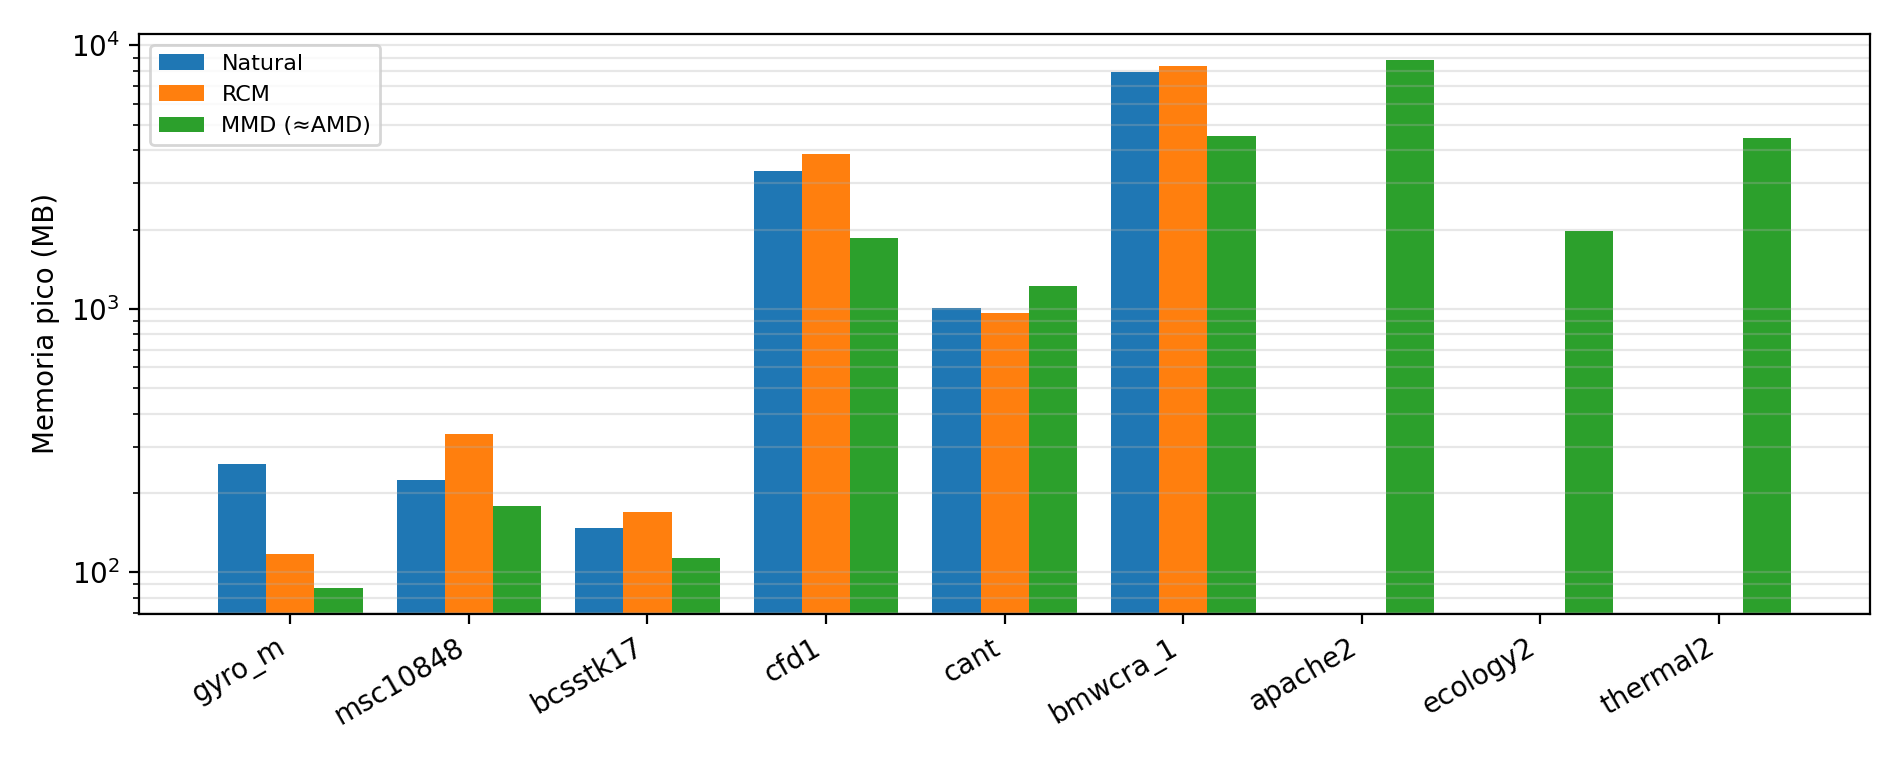
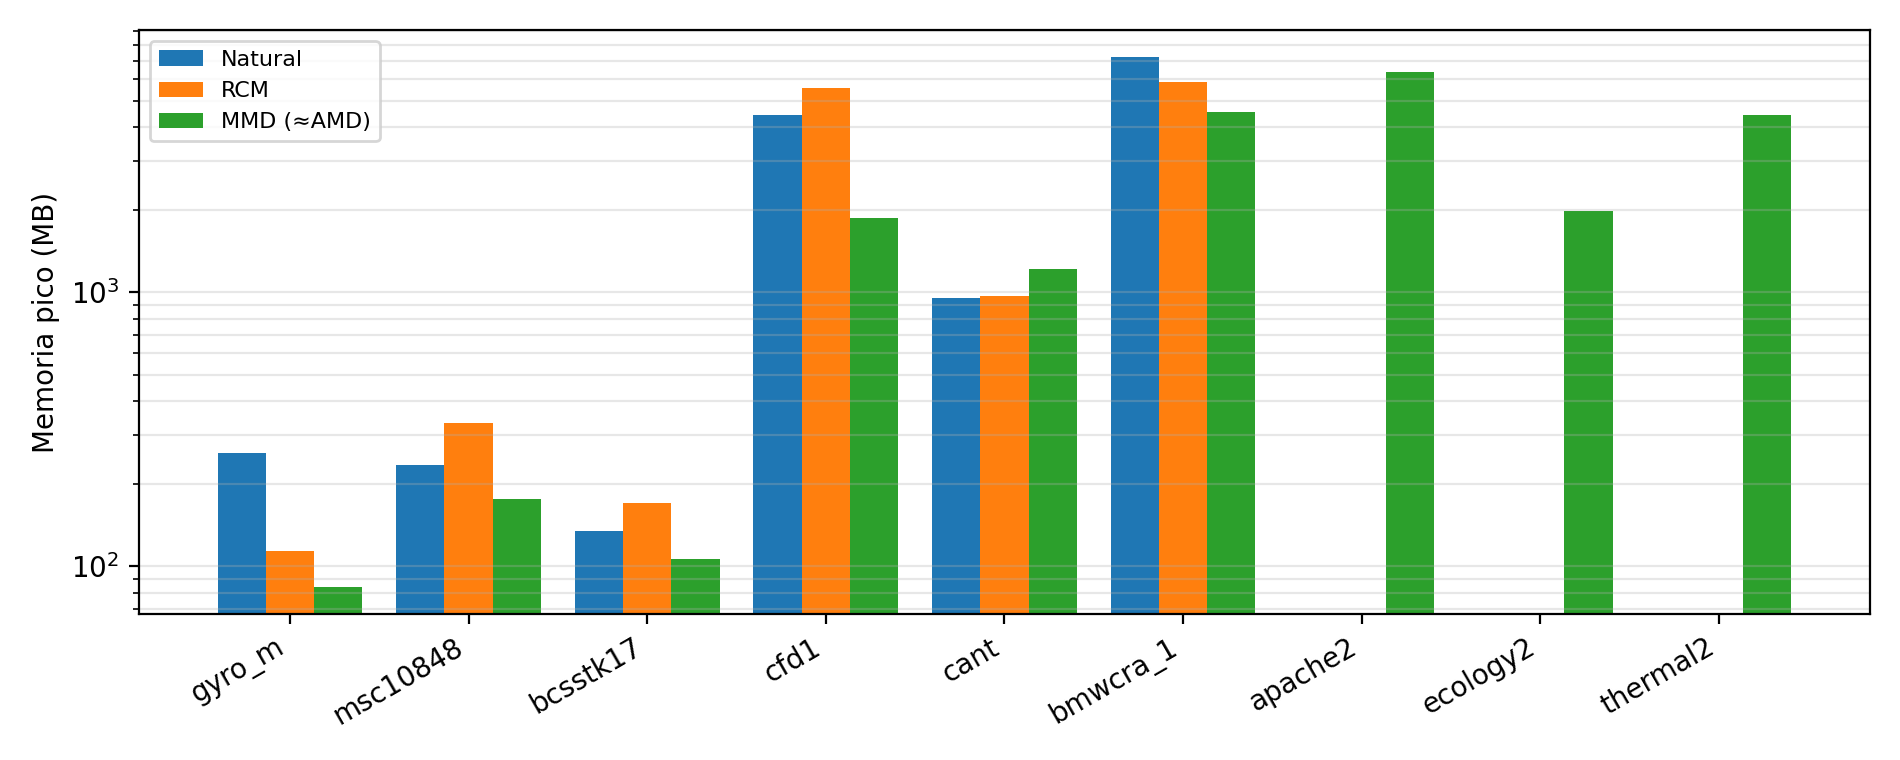
Ejercicio 2: nuevas corridas, figuras y CAMBIOS.md

diff --git a/CAMBIOS.md b/CAMBIOS.md
@@ -1,0 +1,225 @@
+# Cambios de medición y métricas (rama `mejoras-medicion`)
+
+Todos los números de este documento salen de las corridas guardadas en `ej1_resultados.csv`, `ej2_directo.csv` y `ej2_cg.csv`.
+Los resultados anteriores se conservan como `*_v1.csv`. Cada CSV nuevo agrega columnas al final; las anteriores no cambian de nombre ni de orden,
+salvo `t_orden` de `ej2_directo.csv`, que se separó (ver más abajo).
+
+## 1. Cambios por archivo
+
+- `README.md` (nuevo): scripts, comandos para regenerar cada CSV y figura, fuente de cada matriz y hardware/BLAS.
+- `requirements.txt` (nuevo): versiones instaladas de numpy, scipy (≥ 1.12), numba, pandas, matplotlib, python-docx y threadpoolctl.
+- `ej1.py`, `ej2_directo.py`, `ej2_cg.py`: ejecución bajo `if __name__ == "__main__"`.
+- `ej1.py`:
+  - imprime `threadpool_info()` por stderr al iniciar;
+  - `t_fact` y `t_solve` son la mediana de 3 repeticiones; las métricas de error se calculan una vez;
+  - `lu_pivoteo_parcial` cuenta los intercambios de filas;
+  - se calcula ρ = max|U| / max|A| para las dos LU propias;
+  - un pivote exactamente 0 lanza `ZeroDivisionError` y la fila sale como `fallo:`;
+  - columnas nuevas `n_swaps` y `rho` (vacías para los demás métodos);
+  - método nuevo "QR (sin formar Q)": `qr(mode="raw")` y `dormqr` para aplicar Qᵀb. En cada tamaño con κ = 1e2 la diferencia relativa con la solución de QR salió entre 5.7e-15 y 1.2e-14 (se imprime por stderr), muy por debajo del umbral de 1e-10.
+- `ej2_directo.py`:
+  - `t_orden` se separó en `t_prep` (conversión a CSC, sin ordenar), `t_orden` (solo `reverse_cuthill_mckee` o el análisis de CHOLMOD) y `t_perm` (construir `A[p][:, p]`). El tiempo de MMD queda incluido en `t_fact`, porque lo calcula SuperLU dentro de `splu`;
+  - columnas nuevas `banda`, `env` (para natural, rcm y amd_cholmod; vacías para MMD) y `estado` (`ok`, `timeout`, `fallo`). La banda y la envolvente se calculan antes de factorizar y el subproceso las imprime enseguida, de modo que las filas con timeout también las traen y se conservan `n` y `nnz`;
+  - `ru_maxrss` se convierte según `sys.platform` (bytes en macOS, KB en Linux);
+  - el stderr de los subprocesos que fallan o expiran va al stderr del script (`ej2_directo_err.txt` con la redirección del README);
+  - orden opcional `amd_cholmod` (ver sección 4);
+  - se mantiene el límite de 300 s por caso.
+- `ej2_cg.py`:
+  - pasada de calentamiento de Numba sobre una matriz SPD de 50×50 antes del bucle;
+  - columnas nuevas `err_rel`, `reps`, `kappa_est`, `lmin`, `lmax`;
+  - se repite el CG 3 veces (mediana de `t_setup` y de `t_cg`) solo si una primera pasada de la matriz suma menos de 10 s;
+  - λmax con `eigsh(A, 1, which="LA")` y λmin con `eigsh(A, 1, sigma=0, which="LM")`, cada uno en un subproceso con límite de 120 s (NaN si lo excede o falla). Para λmin se pasa `OPinv` con la factorización LU simétrica con MMD que ya usa `ej2_directo.py`, en lugar de dejar que `eigsh` factorice con el orden por defecto de SuperLU; el resultado matemático es el mismo.
+- `tabla_ej2.py`: lee el nuevo `ej2_directo.csv` (un solo archivo, con columna `estado`).
+- `figs_ej1.py`: se agrega "QR (sin formar Q)" y la figura de tiempo contra n usa κ = 1e2.
+- `figs_ej2.py`: sin cambios de código; se regeneraron las figuras con los CSV nuevos.
+
+## 2. Comparación v1 contra resultados nuevos
+
+Las matrices del Ejercicio 1 son las mismas (semilla fija) y los errores y residuos coinciden con v1 en todas las filas comunes; solo cambian los tiempos.
+
+### 2.1 Setup de ILU(0) (compilación de Numba)
+
+| Matriz | t_setup ILU(0) v1 (s) | t_setup ILU(0) nuevo (s) |
+|---|---|---|
+| gyro_m | 0.134 | 0.007401 |
+| msc10848 | 0.00937 | 0.008743 |
+| bcsstk17 | 0.000879 | 0.0006333 |
+| cfd1 | 0.03003 | 0.02833 |
+| cant | 0.04774 | 0.04825 |
+| bmwcra_1 | 0.339 | 0.3463 |
+| apache2 | 0.02428 | 0.02098 |
+| ecology2 | 0.02333 | 0.02217 |
+| thermal2 | 0.1478 | 0.1443 |
+
+La diferencia se concentra en `gyro_m`, la primera matriz: de 0.134 s a 0.0074 s. En las demás matrices los valores son equivalentes a v1.
+
+### 2.2 Tiempo de ordenamiento y de factorización, y memoria (Ej. 2, solver directo)
+
+En v1 `t_orden` valía solo la conversión a CSC para natural y MMD, y la suma de RCM más la permutación para RCM. En la columna "Nuevo" se muestran las columnas separadas.
+En las filas con timeout no hay `t_fact` ni RSS.
+
+| Matriz | Orden | t_orden v1 (s) | Nuevo (s) | t_fact v1 (s) | t_fact nuevo (s) | RSS v1 (MB) | RSS nuevo (MB) |
+|---|---|---|---|---|---|---|---|
+| gyro_m | natural | 0.001058 | t_prep 0.001006 | 1.253 | 1.086 | 259 | 258.9 |
+| gyro_m | rcm | 0.009935 | t_orden 0.002261 + t_perm 0.003134 | 0.08615 | 0.07298 | 117.1 | 113.2 |
+| gyro_m | amd | 0.001124 | t_prep 0.001055 | 0.04622 | 0.04562 | 87.58 | 83.72 |
+| msc10848 | natural | 0.004017 | t_prep 0.003613 | 0.4923 | 0.5037 | 224.1 | 233.9 |
+| msc10848 | rcm | 0.02175 | t_orden 0.002979 + t_perm 0.00816 | 1.057 | 1 | 336.4 | 333.4 |
+| msc10848 | amd | 0.0118 | t_prep 0.005239 | 0.2398 | 0.2152 | 179.4 | 175.8 |
+| bcsstk17 | natural | 0.002089 | t_prep 0.001219 | 0.1214 | 0.1506 | 147.3 | 134.5 |
+| bcsstk17 | rcm | 0.004751 | t_orden 0.001644 + t_perm 0.005437 | 0.2888 | 0.2696 | 169.9 | 170.7 |
+| bcsstk17 | amd | 0.001266 | t_prep 0.001155 | 0.1075 | 0.07887 | 113.6 | 106.2 |
+| cfd1 | natural | 0.003649 | t_prep 0.005308 | 56.33 | 54.71 | 3341 | 4416 |
+| cfd1 | rcm | 0.03666 | t_orden 0.007856 + t_perm 0.01639 | 83.9 | 83.34 | 3878 | 5543 |
+| cfd1 | amd | 0.005077 | t_prep 0.005297 | 18.47 | 18.41 | 1865 | 1860 |
+| cant | natural | 0.006892 | t_prep 0.01449 | 1.349 | 1.379 | 1011 | 948.7 |
+| cant | rcm | 0.04306 | t_orden 0.01244 + t_perm 0.03461 | 1.516 | 1.503 | 968.5 | 966.5 |
+| cant | amd | 0.01028 | t_prep 0.01076 | 4.246 | 4.238 | 1218 | 1217 |
+| bmwcra_1 | natural | 0.01887 | t_prep 0.03198 | 226.6 | 233.1 | 7930 | 7243 |
+| bmwcra_1 | rcm | 0.1003 | t_orden 0.03125 + t_perm 0.0743 | 112.1 | 114.3 | 8325 | 5862 |
+| bmwcra_1 | amd | 0.02553 | t_prep 0.02534 | 38.49 | 40.03 | 4535 | 4531 |
+| apache2 | natural | - | t_prep 0.01688 | - | - | - | - |
+| apache2 | rcm | - | t_orden 0.05077 + t_perm 0.09662 | - | - | - | - |
+| apache2 | amd | 0.01772 | t_prep 0.01912 | 89.77 | 93.51 | 8790 | 6382 |
+| ecology2 | natural | - | t_prep 0.023 | - | - | - | - |
+| ecology2 | rcm | - | t_orden 0.05399 + t_perm 0.1239 | - | - | - | - |
+| ecology2 | amd | 0.01573 | t_prep 0.02657 | 5.419 | 5.893 | 1985 | 1983 |
+| thermal2 | natural | - | t_prep 0.03562 | - | - | - | - |
+| thermal2 | rcm | - | t_orden 0.1617 + t_perm 0.1652 | - | - | - | - |
+| thermal2 | amd | 0.03229 | t_prep 0.03245 | 52.9 | 54.57 | 4450 | 4448 |
+
+Las corridas se hicieron una sola vez. Las memorias pico de `cfd1` con orden natural y RCM subieron respecto de v1 (3341 a 4416 MB y 3878 a 5543 MB), y la de RCM en `bmwcra_1` bajó (8325 a 5862 MB), mientras que con MMD coinciden. No investigué el motivo; conviene tomar el RSS de natural y RCM como orden de magnitud.
+
+### 2.3 QR con y sin formar Q (n = 2048)
+
+Tiempos en segundos.
+
+| Tipo | κ | QR t_fact v1 | QR t_fact nuevo | QR sin Q t_fact | QR t_solve v1 | QR t_solve nuevo | QR sin Q t_solve | err QR | err QR sin Q |
+|---|---|---|---|---|---|---|---|---|---|
+| spd | 1e+02 | 0.5345 | 0.4286 | 0.2171 | 0.00249 | 0.00263 | 0.0134 | 9.85e-15 | 8.307e-15 |
+| spd | 1e+06 | 0.4165 | 0.4451 | 0.2169 | 0.0024 | 0.00274 | 0.011 | 3.532e-11 | 2.672e-11 |
+| spd | 1e+10 | 0.3987 | 0.4707 | 0.2199 | 0.00242 | 0.00367 | 0.01067 | 2.692e-07 | 1.78e-07 |
+| indef | 1e+02 | 0.4001 | 0.4247 | 0.2215 | 0.00241 | 0.00258 | 0.01118 | 1.545e-14 | 1.209e-14 |
+| indef | 1e+06 | 0.4374 | 0.4236 | 0.2297 | 0.00242 | 0.00263 | 0.01104 | 4.116e-11 | 2.643e-11 |
+| indef | 1e+10 | 0.4047 | 0.4043 | 0.2147 | 0.0024 | 0.0026 | 0.01326 | 2.309e-07 | 1.414e-07 |
+
+Sin formar Q la factorización tarda aproximadamente la mitad (0.21 a 0.23 s frente a 0.40 a 0.47 s), pero la resolución es unas 4 veces más lenta (0.011 s frente a 0.0026 s), porque aplica los reflectores con `dormqr` en vez de un producto matriz-vector con Q ya formada. Los errores son del mismo orden.
+
+### 2.4 Cociente entre LU propia con pivoteo parcial y LAPACK (n = 2048)
+
+| Tipo | κ | LU parcial / LAPACK v1 | LU parcial / LAPACK nuevo | LAPACK t_fact v1 (s) | LAPACK t_fact nuevo (s) |
+|---|---|---|---|---|---|
+| spd | 1e+02 | 61.9 | 53.7 | 0.0591 | 0.0642 |
+| spd | 1e+06 | 37.9 | 57.3 | 0.0893 | 0.0602 |
+| spd | 1e+10 | 54.6 | 56.6 | 0.0618 | 0.0607 |
+| indef | 1e+02 | 56.1 | 59.2 | 0.061 | 0.0588 |
+| indef | 1e+06 | 55.1 | 61 | 0.0619 | 0.0571 |
+| indef | 1e+10 | 58.4 | 57.1 | 0.0582 | 0.0611 |
+
+El cociente está entre 53.7 y 61.0 en las seis combinaciones. En v1 `spd` con κ = 1e6 daba 37.9 porque el punto de LAPACK era 0.0893 s, frente a 0.0602 s ahora.
+
+## 3. Valores nuevos para el informe
+
+### 3.1 Ejercicio 1: intercambios de filas y factor de crecimiento
+
+| Tipo | n | κ | n_swaps (parcial) | ρ sin pivoteo | ρ pivoteo parcial | err sin pivoteo | err pivoteo parcial |
+|---|---|---|---|---|---|---|---|
+| spd | 512 | 1e+02 | 0 | 0.9204 | 0.9204 | 5.744e-15 | 5.744e-15 |
+| spd | 512 | 1e+06 | 0 | 0.9431 | 0.9431 | 1.766e-11 | 1.766e-11 |
+| spd | 512 | 1e+10 | 0 | 0.6009 | 0.6009 | 8.033e-08 | 8.033e-08 |
+| spd | 1024 | 1e+02 | 0 | 0.9564 | 0.9564 | 9.043e-15 | 9.043e-15 |
+| spd | 1024 | 1e+06 | 0 | 0.7352 | 0.7352 | 2.342e-11 | 2.342e-11 |
+| spd | 1024 | 1e+10 | 0 | 0.6834 | 0.6834 | 1.494e-07 | 1.494e-07 |
+| spd | 2048 | 1e+02 | 0 | 0.9419 | 0.9419 | 1.209e-14 | 1.209e-14 |
+| spd | 2048 | 1e+06 | 0 | 0.8704 | 0.8704 | 3.248e-11 | 3.248e-11 |
+| spd | 2048 | 1e+10 | 0 | 0.7896 | 0.7896 | 1.991e-07 | 1.991e-07 |
+| indef | 512 | 1e+02 | 507 | 737.3 | 7.789 | 3.134e-12 | 3.947e-14 |
+| indef | 512 | 1e+06 | 504 | 368.6 | 1.828 | 7.957e-09 | 3.355e-11 |
+| indef | 512 | 1e+10 | 502 | 240.8 | 1.577 | 2.375e-05 | 1.538e-07 |
+| indef | 1024 | 1e+02 | 1015 | 1.439e+04 | 6.307 | 4.347e-10 | 8.221e-14 |
+| indef | 1024 | 1e+06 | 1018 | 1756 | 2.42 | 3.927e-08 | 1.003e-10 |
+| indef | 1024 | 1e+10 | 1020 | 89.17 | 1.415 | 7.837e-05 | 4.628e-07 |
+| indef | 2048 | 1e+02 | 2044 | 6615 | 20.74 | 3.74e-11 | 2.022e-13 |
+| indef | 2048 | 1e+06 | 2039 | 1386 | 3.123 | 1.031e-07 | 2.502e-10 |
+| indef | 2048 | 1e+10 | 2040 | 896.2 | 2.275 | 0.0002658 | 8.882e-07 |
+
+En matrices SPD el pivoteo parcial no hizo ningún intercambio en las 9 combinaciones, y ρ < 1 (resultados idénticos con y sin pivoteo). En matrices indefinidas hizo entre n−10 y n−1 intercambios y el ρ de LU sin pivoteo llegó a 1.4e4 (n = 1024, κ = 1e2) y a 6.6e3 (n = 2048, κ = 1e2), contra 20.7 como máximo con pivoteo parcial.
+
+### 3.2 Ejercicio 2: banda y envolvente
+
+Calculadas sobre la matriz permutada, antes de factorizar. Para MMD no se calculan (la permutación queda dentro de SuperLU).
+
+| Matriz | Banda natural | Env natural | Estado nat. | Banda RCM | Env RCM | Estado RCM |
+|---|---|---|---|---|---|---|
+| gyro_m | 5 142 | 14 309 541 | ok | 567 | 2 201 676 | ok |
+| msc10848 | 10 706 | 50 044 035 | ok | 2 168 | 6 910 563 | ok |
+| bcsstk17 | 521 | 2 837 421 | ok | 763 | 3 806 736 | ok |
+| cfd1 | 6 229 | 103 460 652 | ok | 3 465 | 131 735 999 | ok |
+| cant | 275 | 16 778 583 | ok | 654 | 17 152 263 | ok |
+| bmwcra_1 | 141 050 | 978 933 140 | ok | 5 036 | 452 381 217 | ok |
+| apache2 | 65 837 | 1 717 106 409 | timeout | 4 516 | 2 140 669 639 | timeout |
+| ecology2 | 1 000 | 998 998 001 | timeout | 1 000 | 667 164 181 | timeout |
+| thermal2 | 1 226 000 | 53 657 335 080 | timeout | 842 | 694 298 367 | timeout |
+
+### 3.3 Ejercicio 2: número de condición estimado
+
+λmax de `apache2` y de `ecology2` excedió los 120 s, así que su κ queda sin estimar.
+
+| Matriz | λmin | λmax | κ estimado |
+|---|---|---|---|
+| gyro_m | 7.539e-14 | 1.888e-07 | 2.504e+06 |
+| msc10848 | 63.19 | 6.298e+11 | 9.966e+09 |
+| bcsstk17 | 1 | 1.296e+10 | 1.296e+10 |
+| cfd1 | 2.005e-05 | 6.803 | 3.393e+05 |
+| cant | 7.458e-07 | 1.943e+04 | 2.605e+10 |
+| bmwcra_1 | 0.08722 | 3.282e+07 | 3.763e+08 |
+| apache2 | 0.02995 | - | - |
+| ecology2 | 1.226e-06 | - | - |
+| thermal2 | 1.608e-06 | 7.806 | 4.854e+06 |
+
+### 3.4 Ejercicio 2: CG con error relativo
+
+`res_rel` es ‖b − Ax‖/‖b‖ y `err_rel` es ‖x − 1‖/‖1‖. Los tiempos son la mediana de `reps` repeticiones.
+
+| Matriz | Precond. | Iter. | t_cg (s) | Res. rel. | Err. rel. | reps |
+|---|---|---|---|---|---|---|
+| gyro_m | sin precond. | 8425 | 1.945 | 9.79e-13 | 7.18e-09 | 3 |
+| gyro_m | Jacobi | 511 | 0.1211 | 9.88e-13 | 2.38e-10 | 3 |
+| gyro_m | ILU0 | 145 | 0.08911 | 8.85e-13 | 1.51e-10 | 3 |
+| msc10848 | sin precond. | 20000 | 19.55 | 1.49e-07 | 0.0856 | 1 |
+| msc10848 | Jacobi | 5374 | 5.276 | 8.68e-13 | 5.93e-08 | 1 |
+| msc10848 | ILU0 | falla | 0 | - | - | 1 |
+| bcsstk17 | sin precond. | 20000 | 5.39 | 9.39e-09 | 4.15e-06 | 3 |
+| bcsstk17 | Jacobi | 3141 | 0.8592 | 9.68e-13 | 1.41e-10 | 3 |
+| bcsstk17 | ILU0 | falla | 0 | - | - | 3 |
+| cfd1 | sin precond. | 2200 | 2.185 | 9.67e-13 | 3.8e-11 | 3 |
+| cfd1 | Jacobi | 2200 | 2.238 | 9.67e-13 | 3.8e-11 | 3 |
+| cfd1 | ILU0 | 504 | 1.509 | 9.56e-13 | 1.25e-11 | 3 |
+| cant | sin precond. | 11328 | 32.25 | 9.74e-13 | 1.71e-07 | 1 |
+| cant | Jacobi | 4576 | 12.97 | 1e-12 | 1.72e-07 | 1 |
+| cant | ILU0 | falla | 0 | - | - | 1 |
+| bmwcra_1 | sin precond. | 12295 | 95.14 | 1.01e-12 | 2.92e-11 | 1 |
+| bmwcra_1 | Jacobi | 6259 | 48.83 | 1.01e-12 | 3.55e-11 | 1 |
+| bmwcra_1 | ILU0 | 1475 | 27.32 | 9.54e-13 | 3.32e-11 | 1 |
+| apache2 | sin precond. | 6018 | 23.43 | 9.51e-11 | 6.55e-13 | 1 |
+| apache2 | Jacobi | 5017 | 20.98 | 8.75e-11 | 1.43e-13 | 1 |
+| apache2 | ILU0 | 958 | 13.41 | 3.81e-11 | 2.44e-13 | 1 |
+| ecology2 | sin precond. | 7485 | 36.71 | 7.46e-11 | 3.62e-12 | 1 |
+| ecology2 | Jacobi | 7447 | 38.84 | 7.47e-11 | 2.97e-12 | 1 |
+| ecology2 | ILU0 | 2224 | 42.29 | 4.05e-11 | 6.01e-12 | 1 |
+| thermal2 | sin precond. | 6336 | 77.73 | 1.05e-12 | 2.78e-11 | 1 |
+| thermal2 | Jacobi | 6052 | 77.11 | 1.04e-12 | 1.98e-11 | 1 |
+| thermal2 | ILU0 | 2496 | 90.2 | 1.02e-12 | 3.02e-11 | 1 |
+
+### 3.5 AMD de CHOLMOD
+
+No hay resultados (ver sección 4).
+
+## 4. Lo que no se pudo hacer
+
+- **Orden `amd_cholmod`:** `scikit-sparse` no se pudo instalar. No hay Homebrew en el equipo (no se puede instalar SuiteSparse) y pip no encontró ninguna rueda binaria (`--only-binary`) para este equipo, con Python 3.9 en macOS ARM. El código está escrito y se activa solo si `sksparse` está disponible, pero no pude ejecutarlo, así que no hay ningún resultado de AMD real y la rama de código no está probada. Para activarlo: `brew install suite-sparse && pip install scikit-sparse`. Mientras tanto, el "AMD" del informe sigue siendo MMD de SuperLU.
+- **κ de `apache2` y de `ecology2`:** λmax no terminó en 120 s. Hay λmin para ambas.
+- **Factorizaciones con timeout:** `apache2`, `ecology2` y `thermal2` con orden natural y RCM no terminaron en 300 s. Las filas guardan banda y envolvente, pero no se sabe si el motivo fue solo el tiempo o también la memoria, porque el stderr de los subprocesos expirados quedó vacío.
+- **Una sola ejecución por configuración** en el solver directo y, para las matrices cuyo CG suma 10 s o más, también en el CG. No hay medida de variabilidad entre corridas; los RSS de la sección 2.2 muestran que puede ser grande.
+- **Informe:** no se modificaron `informe_tarea2.docx` ni `informe*.py`. Quedan por actualizar a mano: el pie de la Figura 3 (dice κ = 10⁶ y la figura ahora usa κ = 10²), las tablas con los valores nuevos y el cociente de ≈55× entre la LU propia y LAPACK.
+- **Archivos ajenos:** `matrices2.py` y `AMD-2.6-py3-none-any.whl` están en la carpeta del proyecto y no se versionaron.
